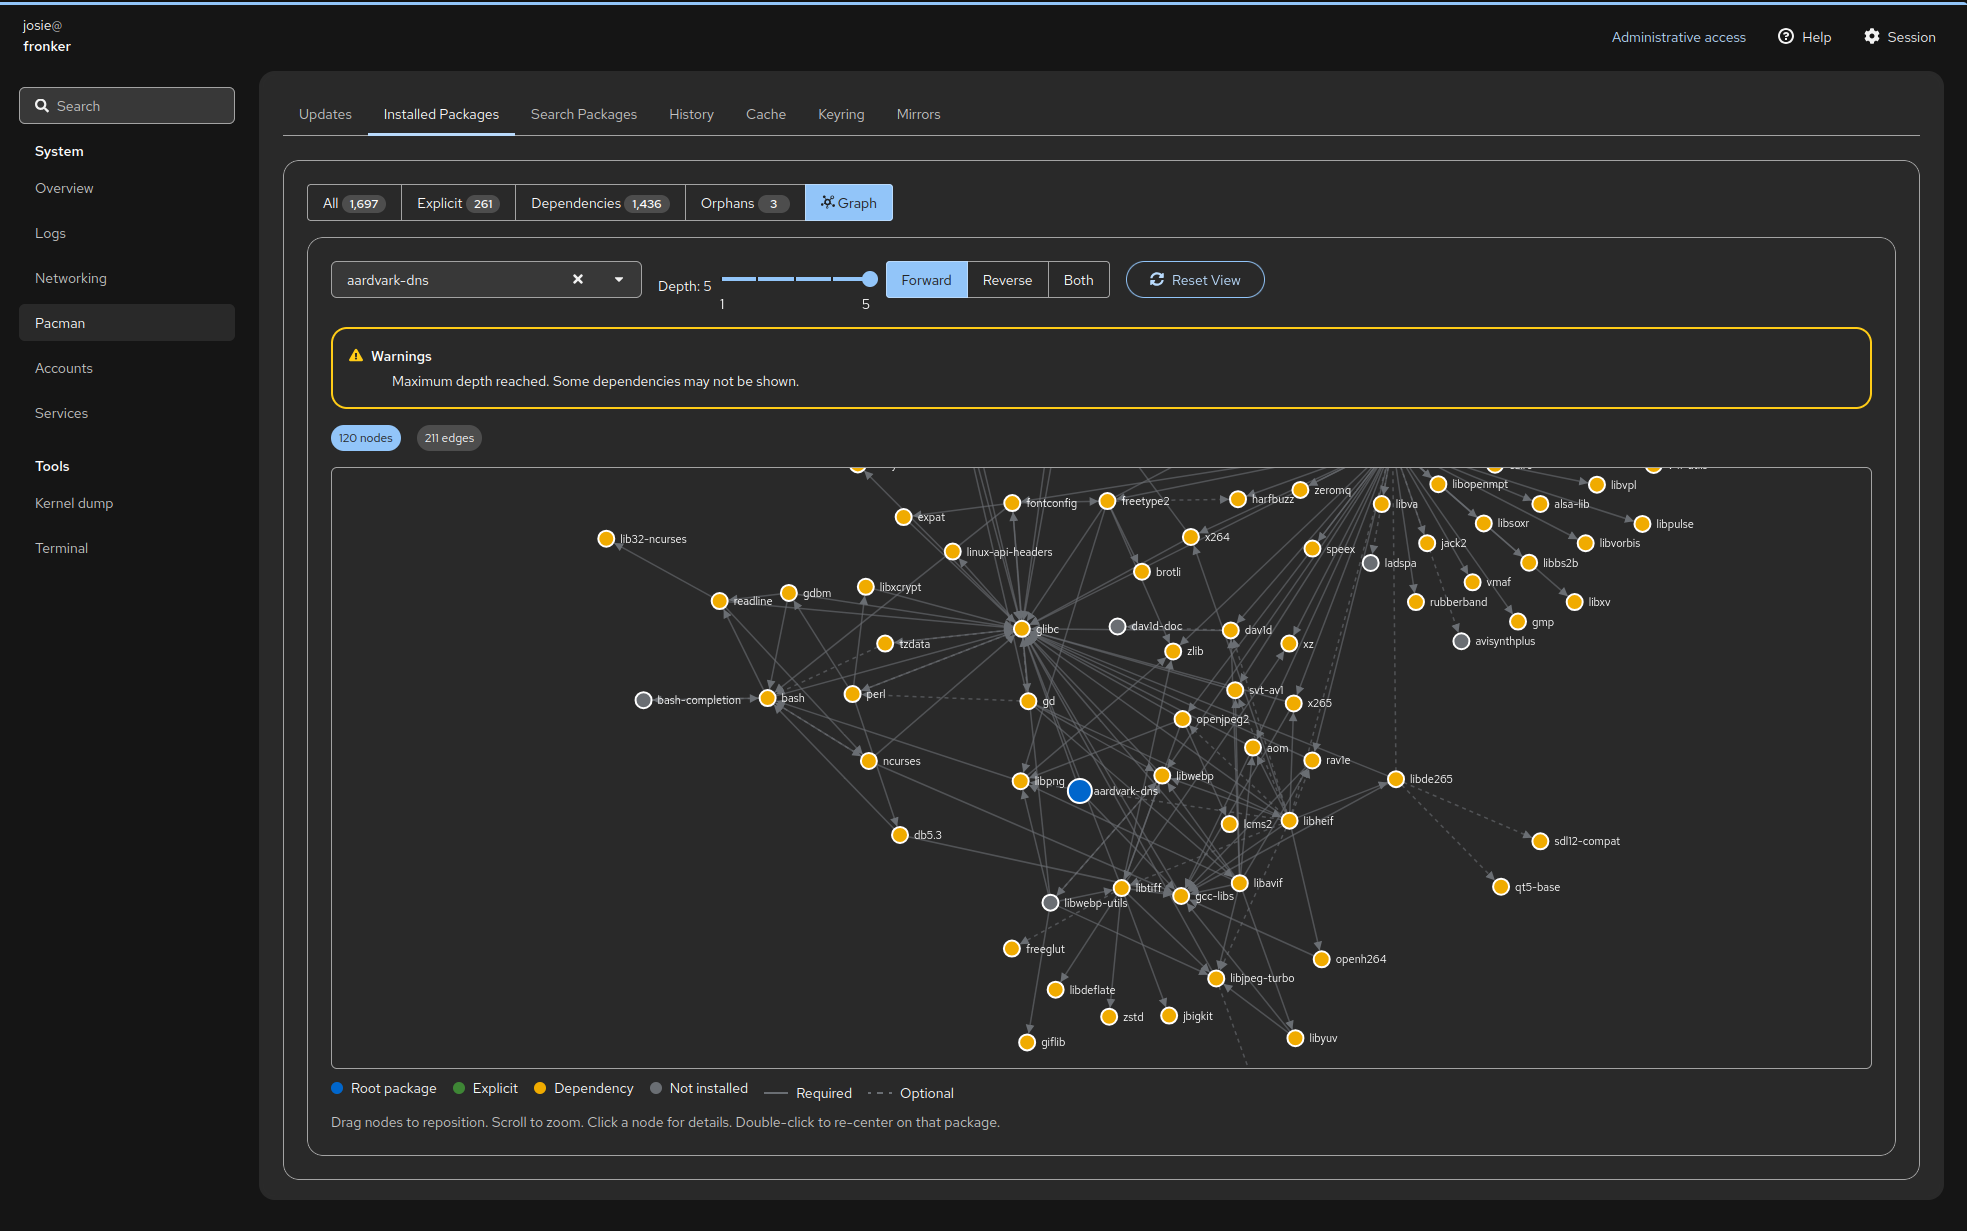
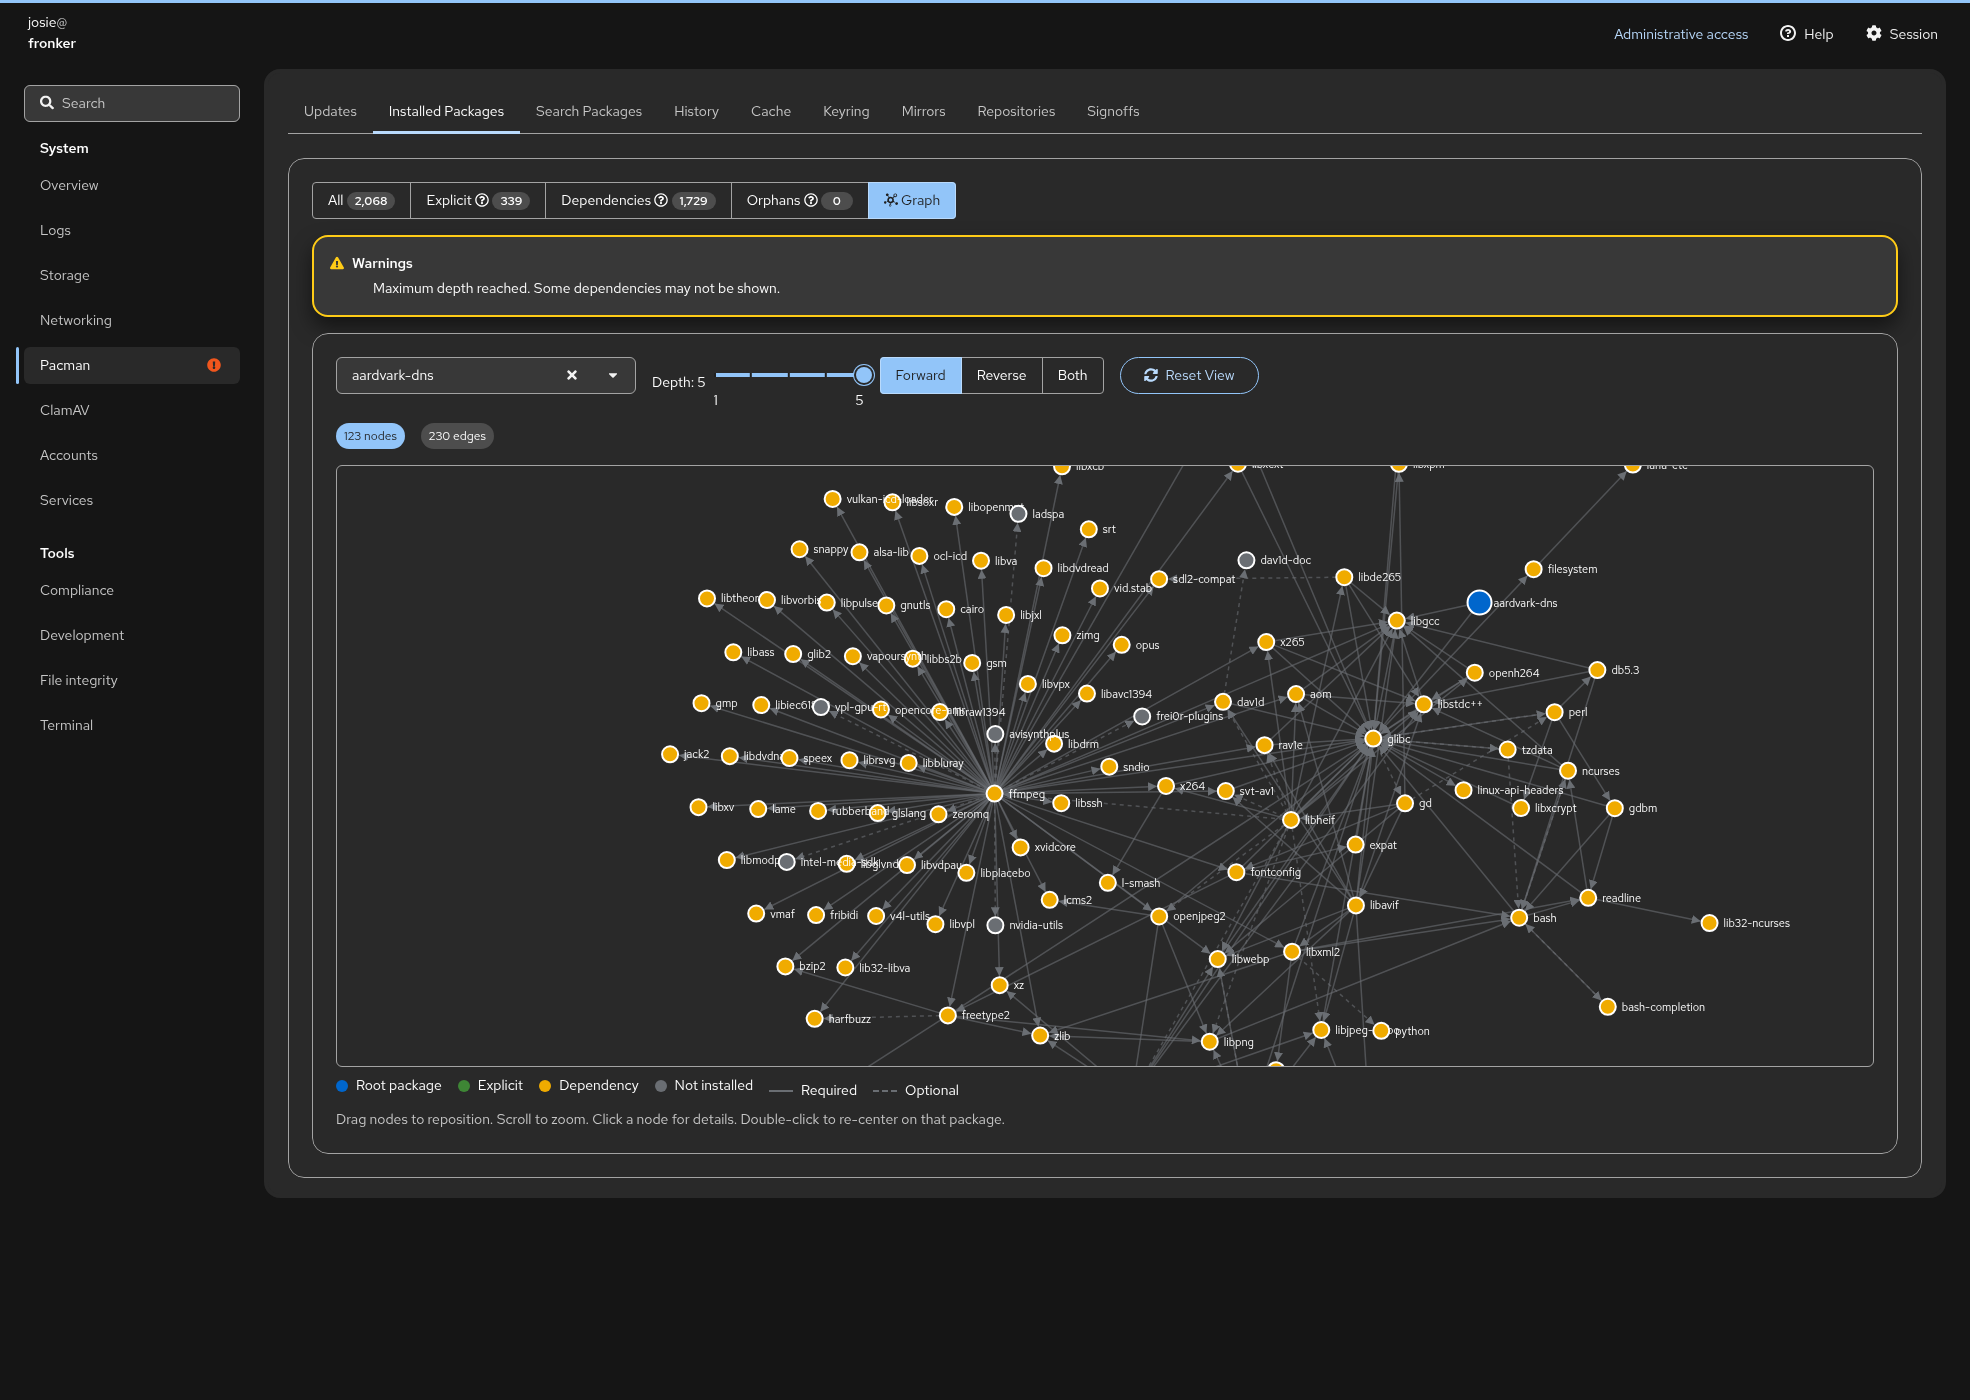
docs(img): recapture screenshots against the current build
The old set predates the Repositories tab and the grouped/flat history
toggle, and was taken on a smaller install.

diff --git a/README.md b/README.md
@@ -39,6 +39,9 @@ View and manage pacman keyring
 ![Mirrors](docs/img/mirrors.png)
 Test and configure pacman mirrors
 
+![Repositories](docs/img/repositories.png)
+Enable, disable, and reorder repositories with pacman.conf backup history
+
 </details>
 
 ## Prerequisites
